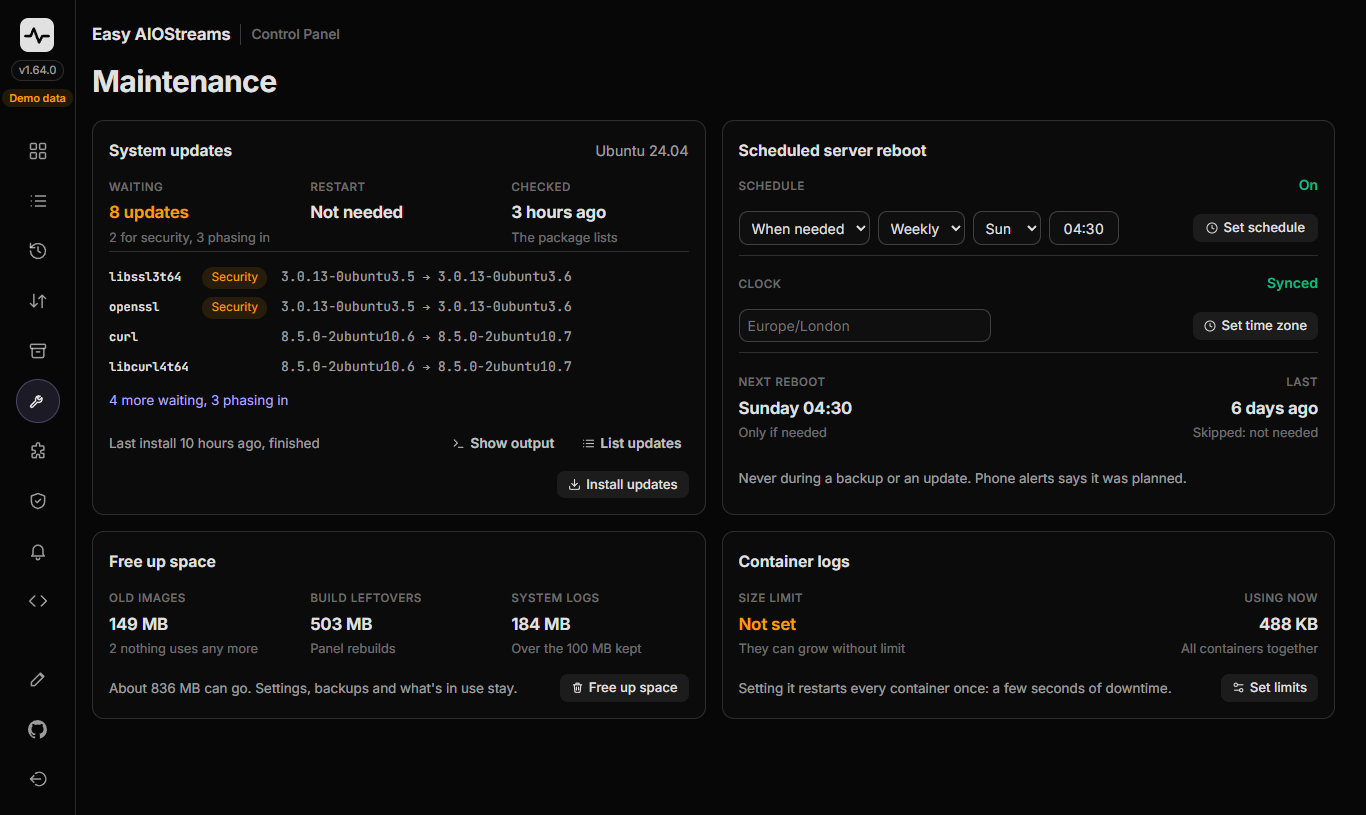
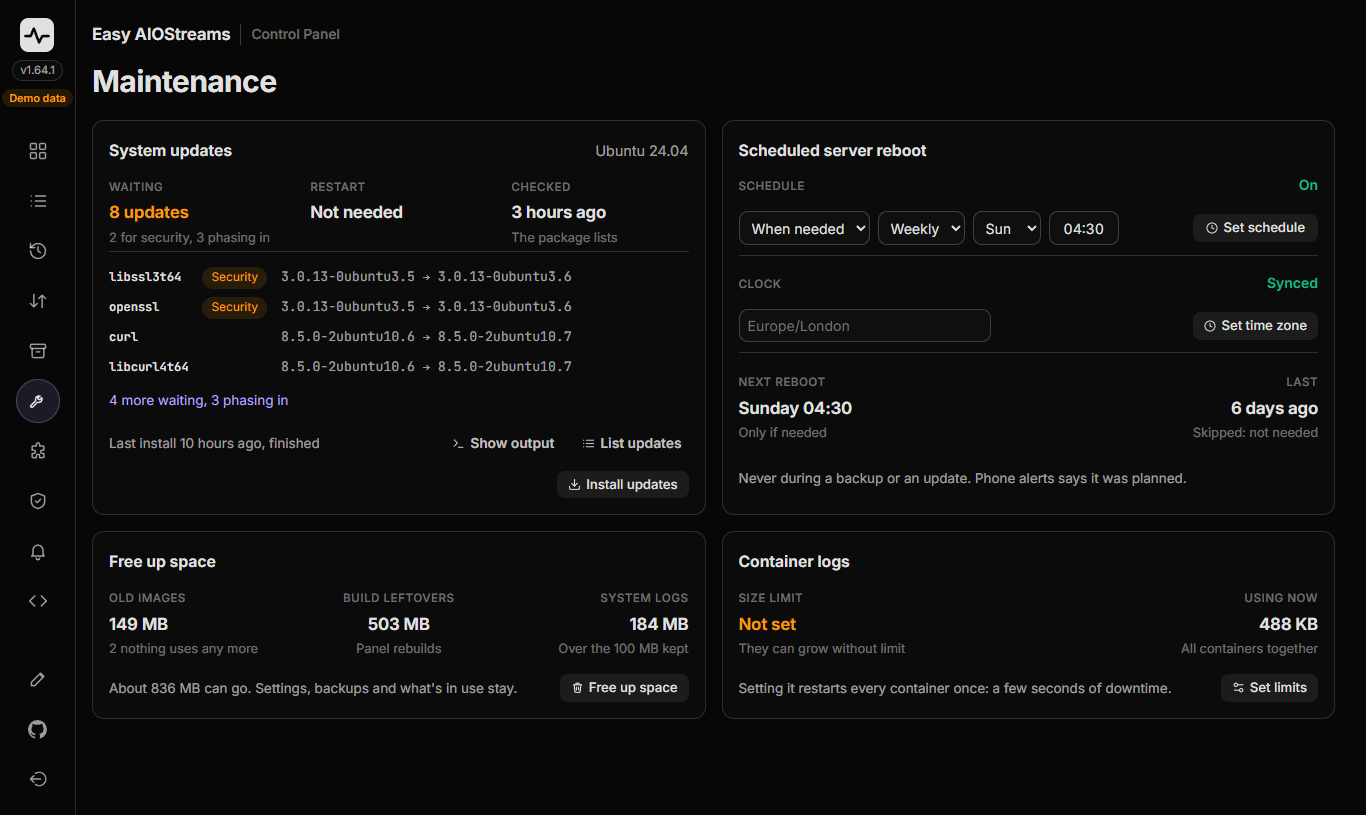
Free up space: three figures spread across the card on desktop
Retakes the Maintenance screenshot.

Changed region(s): [[0.369, 0.7055, 0.5227, 0.8282], [0.2152, 0.7055, 0.3382, 0.7975], [0.0, 0.0613, 0.0615, 0.092]]

diff --git a/control-panel/web/js/maint.js b/control-panel/web/js/maint.js
@@ -59,12 +59,14 @@ function space(m) {
   const s = m.space;
   const total = s.images + s.build + s.journal;
   const worth = total > 20 * 1024 * 1024;
-  return phoneFold(card("Free up space", [
+  const el = card("Free up space", [
     stat("Old images", fmtBytes(s.images), s.image_count ? `${s.image_count} nothing uses any more` : "None left over"),
     stat("Build leftovers", fmtBytes(s.build), "Panel rebuilds"),
     stat("System logs", fmtBytes(s.journal), "Over the 100 MB kept"),
   ], worth ? [`About ${fmtBytes(total)} can go.`, "Settings, backups and what's in use stay."] : "Nothing worth freeing right now.",
-  button("maint.space", worth)), "space", "Free up space", worth ? [fmtBytes(total), ""] : ["Nothing to clear", "dim"]);
+  button("maint.space", worth));
+  el.classList.add("fs-spread");   // desktop: three figures spread across the card, the last at its right edge
+  return phoneFold(el, "space", "Free up space", worth ? [fmtBytes(total), ""] : ["Nothing to clear", "dim"]);
 }
 
 function updates(m) {

diff --git a/control-panel/web/css/app.css b/control-panel/web/css/app.css
@@ -2155,6 +2155,8 @@ a.btn .ext { margin-left: 0; vertical-align: 0; }
 @media (min-width: 721px) {
   .rs-desk .stat-grid > .stat:last-child, .lg-right .stat-grid > .stat:last-child { text-align: right; }
   .lg-right .stat-grid { grid-template-columns: repeat(2, minmax(0, 1fr)); }
+  .fs-spread .stat-grid > .stat:nth-child(2) { text-align: center; }
+  .fs-spread .stat-grid > .stat:last-child { text-align: right; }
 }
 /* Desktop: each row's button says what it sets, and they share one width so they line up */
 .rs-desk .rs-ctl > .btn { min-width: 9.5em; }

diff --git a/CHANGELOG.md b/CHANGELOG.md
@@ -4,7 +4,7 @@ Notable changes to easy-aiostreams, newest first. Control panel versions are in 
 
 ## 22 November 2026
 
-- On a computer, Last on Scheduled server reboot and Using now on Container logs sit at the right edge of their cards, and Set schedule on Scheduled backups is in the card's bottom right corner. The Maintenance and Backup & Restore screenshots in the guides are retaken. (Panel 1.64.1)
+- On a computer, Last on Scheduled server reboot and Using now on Container logs sit at the right edge of their cards, Free up space spreads its three figures across its card, and Set schedule on Scheduled backups is in the card's bottom right corner. The Maintenance and Backup & Restore screenshots in the guides are retaken. (Panel 1.64.1)
 - **Docs:** The Logs and Activity screenshots in the control panel guides are retaken for panel 1.64.0. ([#215](https://github.com/alpinezx/easy-aiostreams/pull/215))
 - Activity now reads like a log. Each row has a status dot, how long ago in the accent colour, what happened and its group: on one line on a computer, and on a phone with the name first and the time and group under it. The filter card matches Logs, with search, the Show list (when Phone alerts is set up), OK, WARN and ERROR buttons and a clear icon. Logs lose the time pills too and show the date and time as plain coloured text. (Panel 1.64.0, [#214](https://github.com/alpinezx/easy-aiostreams/pull/214))
 - **Fixed:** Logs' tools now sit on the level buttons' row of the filter card they act on. On a computer the switches come first, then a thin rule under the regex button, then Save, Copy and Clear last. On a phone only the bin stays in the row, so nothing is pushed off the edge when the page is zoomed in; Save and Copy moved into the ⋮ menu, the regex button is gone, and the search box has more room. The log box shows whole rows with a single line at its top edge instead of a cut-off row, and on a phone dialogs with three buttons put Cancel at the bottom, under the two choices. (Panel 1.64.0, [#214](https://github.com/alpinezx/easy-aiostreams/pull/214))
